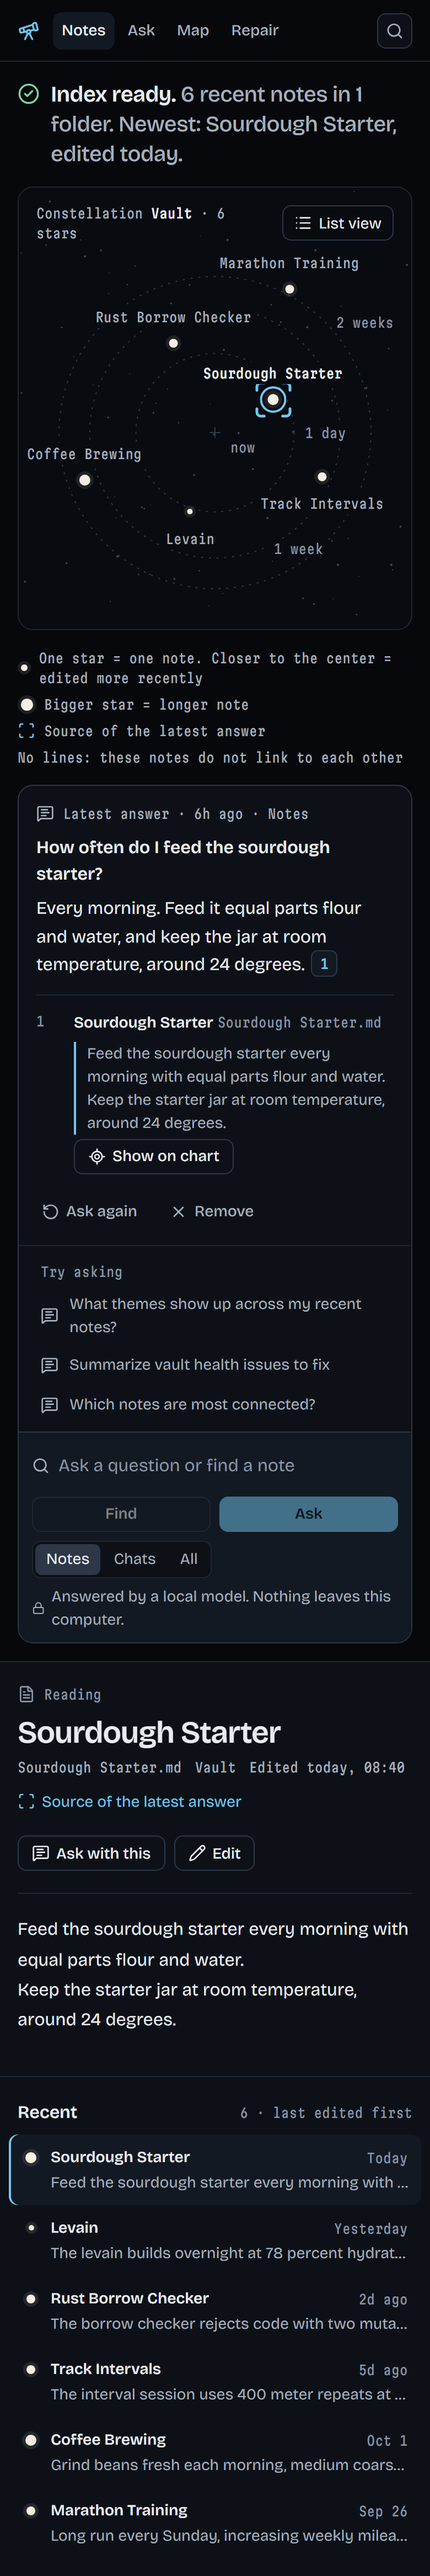
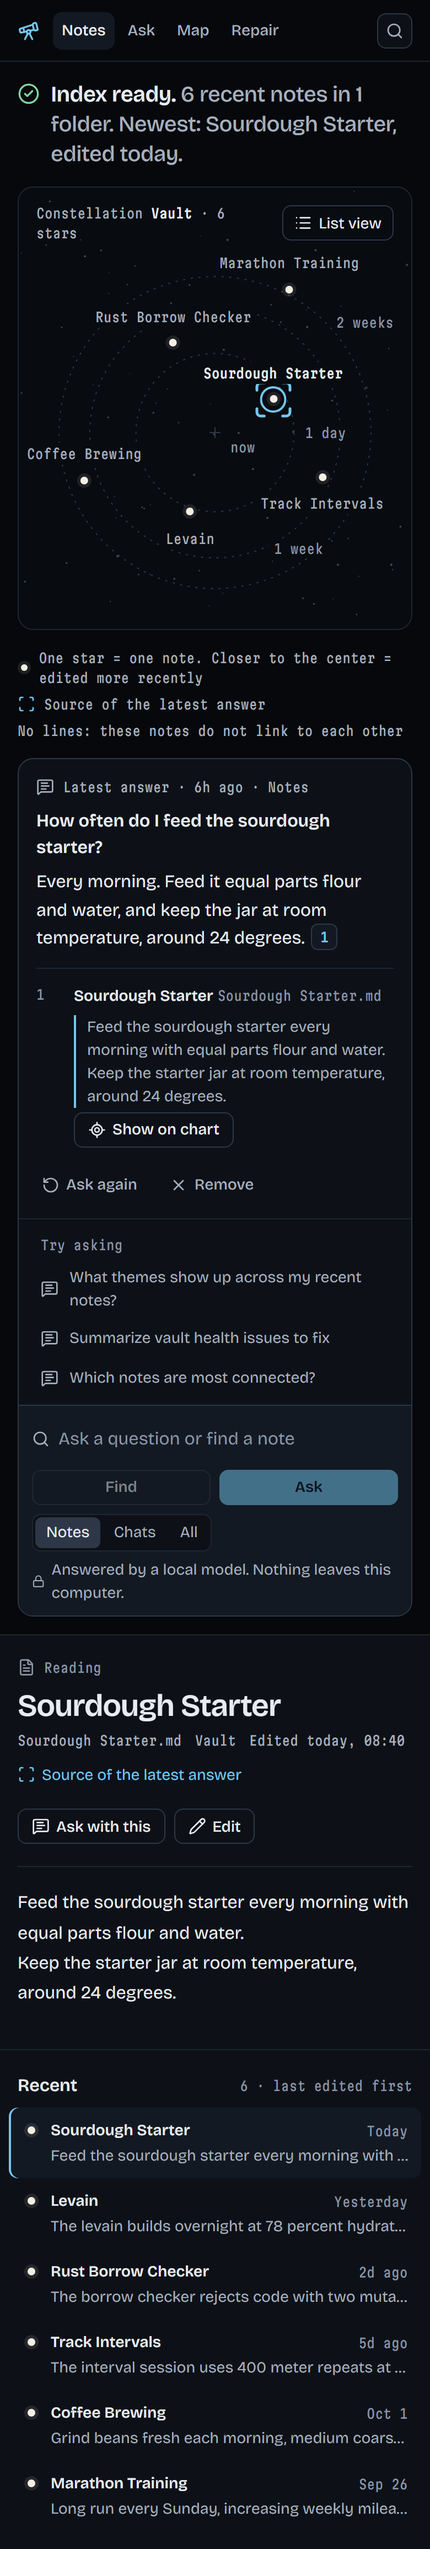
Give every star one size so the chart reads no note text
Sizing stars by length meant a GET /api/note for every recent note on each
visit, and on a OneDrive vault a read can force a download. The chart now
needs only id, title and edit time; the reading pane still fetches just
the note you open. The legend no longer mentions star size.

diff --git a/frontend/src/lib/starChart.test.ts b/frontend/src/lib/starChart.test.ts
@@ -3,7 +3,6 @@ import {
   DAY_MS,
   R_MAX,
   R_MIN,
-  dotSize,
   layoutStarChart,
   radiusFor,
   ringAges,
@@ -17,12 +16,12 @@ import {
 // and "now" fixed at 2026-10-11 11:40 PDT.
 const NOW = Date.parse("2026-10-11T11:40:00-07:00");
 const FIXTURE: ChartNote[] = [
-  { id: "Sourdough Starter.md", title: "Sourdough Starter", editedMs: 1791733200_000, words: 22 },
-  { id: "Levain.md", title: "Levain", editedMs: 1791648300_000, words: 13 },
-  { id: "Rust Borrow Checker.md", title: "Rust Borrow Checker", editedMs: 1791513000_000, words: 18 },
-  { id: "Track Intervals.md", title: "Track Intervals", editedMs: 1791296100_000, words: 18 },
-  { id: "Coffee Brewing.md", title: "Coffee Brewing", editedMs: 1790910600_000, words: 22 },
-  { id: "Marathon Training.md", title: "Marathon Training", editedMs: 1790430600_000, words: 18 },
+  { id: "Sourdough Starter.md", title: "Sourdough Starter", editedMs: 1791733200_000 },
+  { id: "Levain.md", title: "Levain", editedMs: 1791648300_000 },
+  { id: "Rust Borrow Checker.md", title: "Rust Borrow Checker", editedMs: 1791513000_000 },
+  { id: "Track Intervals.md", title: "Track Intervals", editedMs: 1791296100_000 },
+  { id: "Coffee Brewing.md", title: "Coffee Brewing", editedMs: 1790910600_000 },
+  { id: "Marathon Training.md", title: "Marathon Training", editedMs: 1790430600_000 },
 ];
 
 function distance(s: { x: number; y: number }): number {
@@ -93,7 +92,6 @@ describe("layoutStarChart", () => {
         id: `${folders[Math.floor(rand() * folders.length)]}Note ${i}.md`,
         title: `Note ${i}`,
         editedMs: NOW - rand() * scaleDays * DAY_MS,
-        words: Math.floor(rand() * 900),
       })).sort((a, b) => b.editedMs - a.editedMs);
       expectStarsBetweenTheirRings(notes, NOW);
     }
@@ -101,9 +99,9 @@ describe("layoutStarChart", () => {
 
   test("a note edited exactly on a ring age sits on that ring, not inside it", () => {
     const notes: ChartNote[] = [
-      { id: "a.md", title: "A", editedMs: NOW - 0.5 * DAY_MS, words: 1 },
-      { id: "b.md", title: "B", editedMs: NOW - 7 * DAY_MS, words: 1 },
-      { id: "c.md", title: "C", editedMs: NOW - 15 * DAY_MS, words: 1 },
+      { id: "a.md", title: "A", editedMs: NOW - 0.5 * DAY_MS },
+      { id: "b.md", title: "B", editedMs: NOW - 7 * DAY_MS },
+      { id: "c.md", title: "C", editedMs: NOW - 15 * DAY_MS },
     ];
     const chart = expectStarsBetweenTheirRings(notes, NOW);
     const week = chart.rings.find((r) => r.label === "1 week")!;
@@ -131,10 +129,10 @@ describe("layoutStarChart", () => {
 
   test("each folder gets its own wedge of the circle", () => {
     const notes: ChartNote[] = [
-      { id: "03 School/Graphs.md", title: "Graphs", editedMs: NOW - 1000, words: 10 },
-      { id: "02 Projects/Atlas.md", title: "Atlas", editedMs: NOW - 2 * DAY_MS, words: 10 },
-      { id: "03 School/Heaps.md", title: "Heaps", editedMs: NOW - 3 * DAY_MS, words: 10 },
-      { id: "02 Projects/Gridiron.md", title: "Gridiron", editedMs: NOW - 4 * DAY_MS, words: 10 },
+      { id: "03 School/Graphs.md", title: "Graphs", editedMs: NOW - 1000 },
+      { id: "02 Projects/Atlas.md", title: "Atlas", editedMs: NOW - 2 * DAY_MS },
+      { id: "03 School/Heaps.md", title: "Heaps", editedMs: NOW - 3 * DAY_MS },
+      { id: "02 Projects/Gridiron.md", title: "Gridiron", editedMs: NOW - 4 * DAY_MS },
     ];
     const chart = layoutStarChart(notes, [], NOW);
     expect(chart.constellations.map((c) => c.folder)).toEqual(["School", "Projects"]);
@@ -163,16 +161,11 @@ describe("layoutStarChart", () => {
     expect(layoutStarChart(FIXTURE, [], NOW).lines).toEqual([]);
   });
 
-  test("star size follows word count, and is neutral when the length is unknown", () => {
-    expect(dotSize(13, 13, 22)).toBe(5);
-    expect(dotSize(22, 13, 22)).toBe(10);
-    expect(dotSize(18, 18, 18)).toBe(7);
-    expect(dotSize(null, 0, 100)).toBe(7);
+  test("needs only id, title and edit time: no note text, so no note reads", () => {
     const chart = layoutStarChart(FIXTURE, [], NOW);
-    expect(chart.stars.find((s) => s.id === "Levain.md")!.size).toBe(5);
-    expect(chart.stars.find((s) => s.id === "Coffee Brewing.md")!.size).toBe(10);
-    const unknown = layoutStarChart(FIXTURE.map((n) => ({ ...n, words: null })), [], NOW);
-    expect(new Set(unknown.stars.map((s) => s.size))).toEqual(new Set([7]));
+    expect(Object.keys(chart.stars[0]).sort()).toEqual(
+      ["ageDays", "folder", "id", "label", "r", "side", "title", "x", "y"],
+    );
   });
 
   test("handles no notes", () => {

diff --git a/frontend/src/components/workspace/NotesView.tsx b/frontend/src/components/workspace/NotesView.tsx
@@ -5,14 +5,13 @@ import { CircleAlert, CircleCheck, FileText, Loader } from "lucide-react";
 import {
   ApiError,
   fetchGraph,
-  fetchNote,
   fetchRecent,
   folderCluster,
   recentToNote,
   type BackendGraphEdge,
 } from "@/lib/api";
 import { relativeDay } from "@/lib/format";
-import { cleanSnippet, wordCount } from "@/lib/noteText";
+import { cleanSnippet } from "@/lib/noteText";
 import { layoutStarChart, type ChartNote } from "@/lib/starChart";
 import { indexStatus } from "@/lib/status";
 import type { Note } from "@/types";
@@ -46,7 +45,6 @@ export function NotesView() {
   const { selectedNoteId, selectNote, ready } = useWorkspace();
   const [recent, setRecent] = useState<Recent>({ status: "loading" });
   const [links, setLinks] = useState<Links>({ status: "loading" });
-  const [words, setWords] = useState<Record<string, number>>({});
   const [sourceIds, setSourceIds] = useState<ReadonlySet<string>>(new Set());
   const [nowMs] = useState(() => Date.now());
   const readerRef = useRef<HTMLElement>(null);
@@ -77,25 +75,6 @@ export function NotesView() {
     };
   }, []);
 
-  // Star size needs each note's full length; /api/recent only sends the first 200 characters.
-  const recentIds = recent.status === "ready" ? recent.notes.map((n) => n.id).join("\n") : "";
-  useEffect(() => {
-    if (!recentIds) return;
-    let cancelled = false;
-    for (const id of recentIds.split("\n")) {
-      fetchNote(id)
-        .then((n) => {
-          if (!cancelled) setWords((w) => ({ ...w, [id]: wordCount(n.content, n.title) }));
-        })
-        .catch(() => {
-          /* size stays neutral for this note */
-        });
-    }
-    return () => {
-      cancelled = true;
-    };
-  }, [recentIds]);
-
   const notes = useMemo(() => (recent.status === "ready" ? recent.notes : []), [recent]);
   const chartNotes: ChartNote[] = useMemo(
     () =>
@@ -103,22 +82,19 @@ export function NotesView() {
         id: n.id,
         title: n.title,
         editedMs: Date.parse(n.updatedAt),
-        words: words[n.id] ?? null,
       })),
-    [notes, words],
+    [notes],
   );
   const chart = useMemo(
     () => layoutStarChart(chartNotes, links.status === "ready" ? links.edges : [], nowMs),
     [chartNotes, links, nowMs],
   );
-  const sizes = useMemo(() => Object.fromEntries(chart.stars.map((s) => [s.id, s.size])), [chart]);
   const editedIso = useMemo(() => Object.fromEntries(notes.map((n) => [n.id, n.updatedAt])), [notes]);
 
   const openId = selectedNoteId ?? notes[0]?.id ?? null;
   const openNote = notes.find((n) => n.id === openId);
   const chartState: ChartState =
     recent.status === "ready" ? (notes.length ? "ready" : "empty") : recent.status;
-  const sizesKnown = notes.length > 1 && notes.every((n) => words[n.id] !== undefined);
   const sourceOnChart = notes.some((n) => sourceIds.has(n.id));
 
   const pick = (id: string, reveal: "reader" | "chart" = "reader") => {
@@ -131,7 +107,6 @@ export function NotesView() {
       <RecentList
         recent={recent}
         openId={openId}
-        sizes={sizes}
         nowMs={nowMs}
         onPick={(id) => pick(id)}
       />
@@ -153,7 +128,6 @@ export function NotesView() {
             chart={chart}
             linksKnown={links.status === "ready"}
             sourceOnChart={sourceOnChart}
-            sizesKnown={sizesKnown}
           />
         )}
         <AskDock
@@ -237,13 +211,11 @@ function Lead({
 function RecentList({
   recent,
   openId,
-  sizes,
   nowMs,
   onPick,
 }: {
   recent: Recent;
   openId: string | null;
-  sizes: Record<string, number>;
   nowMs: number;
   onPick: (id: string) => void;
 }) {
@@ -287,7 +259,7 @@ function RecentList({
                 onClick={() => onPick(n.id)}
               >
                 <span className="dotcell" aria-hidden>
-                  <span className="dot" style={{ width: sizes[n.id] ?? 7, height: sizes[n.id] ?? 7 }} />
+                  <span className="dot" style={{ width: 7, height: 7 }} />
                 </span>
                 <span className="t">{n.title}</span>
                 <span className="d mono num">{relativeDay(n.updatedAt, nowMs)}</span>

diff --git a/frontend/src/lib/starChart.ts b/frontend/src/lib/starChart.ts
@@ -8,7 +8,8 @@
  *
  * - Distance from the center = time since the last edit, on a square-root
  *   scale. The age rings use the same scale (`radiusFor`).
- * - Star size = note length in words (5 to 10 px), when the length is known.
+ * - Every star is the same size. Size would need each note's full text, and
+ *   reading every recent note (OneDrive may download it) is not worth that.
  * - Constellation = folder, by the app's own `folderCluster()`. With more than
  *   one folder, each folder gets its own wedge of the circle.
  * - Lines = links between two plotted notes in the graph data. No link, no line.
@@ -49,8 +50,6 @@ export type ChartNote = Readonly<{
   title: string;
   /** last edit, epoch milliseconds */
   editedMs: number;
-  /** body length in words, or null while unknown */
-  words: number | null;
 }>;
 
 export type ChartLink = Readonly<{ source: string; target: string; is_ghost?: boolean }>;
@@ -64,14 +63,11 @@ export type Star = Readonly<{
   label: string;
   folder: string;
   ageDays: number;
-  words: number | null;
   x: number;
   y: number;
   /** distance from the center, in percent of the box side */
   r: number;
   side: LabelSide;
-  /** dot diameter in px */
-  size: number;
 }>;
 
 export type AgeRing = Readonly<{
@@ -128,12 +124,6 @@ export function ringAges(maxDays: number): { days: number; label: string }[] {
 export function pointAt(r: number, deg: number): { x: number; y: number } {
   const rad = (deg * Math.PI) / 180;
   return { x: 50 + 100 * r * Math.cos(rad), y: 50 + 100 * r * Math.sin(rad) };
-}
-
-/** 5 to 10 px by word count; 7 px when the length is unknown or all notes are the same length. */
-export function dotSize(words: number | null, min: number, max: number): number {
-  if (words === null || max <= min) return 7;
-  return 5 + Math.round(((words - min) / (max - min)) * 5);
 }
 
 export function shortLabel(title: string): string {
@@ -249,8 +239,6 @@ export function layoutStarChart(
   folderOf.forEach((f) => counts.set(f, (counts.get(f) || 0) + 1));
   const wedge = wedges(folders, counts, notes.length);
 
-  const known = notes.map((n) => n.words).filter((w): w is number => w !== null);
-  const [minW, maxW] = known.length ? [Math.min(...known), Math.max(...known)] : [0, 0];
 
   const seen = new Map<string, number>();
   const points = notes.map((n, i) => {
@@ -290,12 +278,10 @@ export function layoutStarChart(
     label: points[i].label,
     folder: folderOf[i],
     ageDays: ages[i],
-    words: n.words,
     x: points[i].x,
     y: points[i].y,
     r: points[i].r * 100,
     side: sides[i],
-    size: dotSize(n.words, minW, maxW),
   }));
 
   const taken = [...boxes, ...constellationBoxes, ...points.map((p) => dotBox(p, 2))];

diff --git a/frontend/src/components/workspace/StarChart.tsx b/frontend/src/components/workspace/StarChart.tsx
@@ -5,6 +5,8 @@ import { relativeDay } from "@/lib/format";
 import { starField, type StarChart as Chart } from "@/lib/starChart";
 
 const FIELD = starField(20261011, 150);
+/** Every star is one size: the chart encodes edit time, folder and links, not length. */
+const STAR_PX = 7;
 
 export type ChartState = "loading" | "ready" | "empty" | "error";
 
@@ -102,7 +104,6 @@ export function StarChart({
               s.title,
               `in ${s.folder}`,
               edited ? `edited ${relativeDay(edited, nowMs).toLowerCase()}` : null,
-              s.words !== null ? `${s.words} ${s.words === 1 ? "word" : "words"}` : null,
               isSource ? "source of the latest answer" : null,
             ].filter(Boolean);
             return (
@@ -122,7 +123,7 @@ export function StarChart({
                   onClick={() => onSelect(s.id)}
                 >
                   <span className="dotbox">
-                    <span className="dot" style={{ width: s.size, height: s.size }} />
+                    <span className="dot" style={{ width: STAR_PX, height: STAR_PX }} />
                   </span>
                   <span className="star-name mono" aria-hidden>
                     {s.label}
@@ -155,12 +156,10 @@ export function ChartLegend({
   chart,
   linksKnown,
   sourceOnChart,
-  sizesKnown,
 }: {
   chart: Chart;
   linksKnown: boolean;
   sourceOnChart: boolean;
-  sizesKnown: boolean;
 }) {
   return (
     <ul className="legend mono" aria-label="How to read the chart">
@@ -170,14 +169,6 @@ export function ChartLegend({
         </span>
         One star = one note. Closer to the center = edited more recently
       </li>
-      {sizesKnown && (
-        <li>
-          <span className="key">
-            <span className="dot" style={{ width: 11, height: 11 }} />
-          </span>
-          Bigger star = longer note
-        </li>
-      )}
       {chart.constellations.length > 1 && <li>Constellation = folder</li>}
       {sourceOnChart && (
         <li>

diff --git a/frontend/src/lib/noteText.test.ts b/frontend/src/lib/noteText.test.ts
@@ -1,5 +1,5 @@
 import { describe, expect, test } from "bun:test";
-import { cleanSnippet, noteBlocks, wordCount } from "./noteText";
+import { cleanSnippet, noteBlocks } from "./noteText";
 import { askedAgo, clockTime, editedPhrase, relativeDay } from "./format";
 import { answerFromHistory, uniqueSources } from "./ask";
 
@@ -16,14 +16,6 @@ describe("cleanSnippet", () => {
   test("keeps text when there is no title heading", () => {
     expect(cleanSnippet("Just a line\nand another", "Other")).toBe("Just a line and another");
     expect(cleanSnippet("", "Empty")).toBe("");
-  });
-});
-
-describe("wordCount", () => {
-  test("counts body words without the title", () => {
-    expect(wordCount(COFFEE, "Coffee Brewing")).toBe(22);
-    expect(wordCount("# Levain\n\nThe levain builds overnight at 78 percent hydration\nDiscard goes into pancake batter", "Levain")).toBe(13);
-    expect(wordCount("# Only Title", "Only Title")).toBe(0);
   });
 });
 

diff --git a/frontend/src/lib/noteText.ts b/frontend/src/lib/noteText.ts
@@ -1,6 +1,6 @@
 /**
- * Calculations over a note's Markdown text: the snippet for a list row, the
- * word count behind a star's size, and the blocks the reading pane renders.
+ * Calculations over a note's Markdown text: the snippet for a list row and
+ * the blocks the reading pane renders.
  * All pure: text in, data out.
  */
 
@@ -27,12 +27,6 @@ export function cleanSnippet(md: string, title: string): string {
     .join(" ")
     .replace(/\s+/g, " ")
     .trim();
-}
-
-/** Words in the note body, not counting the title heading. */
-export function wordCount(md: string, title: string): number {
-  const text = cleanSnippet(md, title);
-  return text ? text.split(" ").length : 0;
 }
 
 export type NoteBlock =

diff --git a/DESIGN.md b/DESIGN.md
@@ -52,7 +52,7 @@ Dark only, by Bryan's choice: `color-scheme: dark`, tokens defined once on `:roo
 - The app keeps its own small component set: CSS classes in `globals.css` plus Tailwind utilities, and React components in `frontend/src/components/workspace/`. It does not use shadcn/ui; adding it would be a new dependency for a handful of parts.
 - Buttons: primary = filled accent (`.btn-primary`, one per area: Ask, Save), secondary = outline (`.btn`), quiet = text only (`.btn-quiet`). Destructive actions use words ("Remove", "Clear history") and a confirm where they delete many things.
 - Top bar: brand, four tabs (Notes, Ask, Map, Repair, each with its Ctrl shortcut), the index status outside Notes, and the Ctrl K search button.
-- Star chart (`StarChart.tsx`, layout in `lib/starChart.ts`): each recent note is a star. Distance from the center = time since the last edit, on the same square-root scale as the dashed age rings. Star size = note length in words. Constellation = folder (`folderCluster()`), one wedge per folder. Lines only where the graph data has a link. The angle inside a constellation means nothing. A bracket marks the latest answer's source. The legend only states what is true of what is drawn.
+- Star chart (`StarChart.tsx`, layout in `lib/starChart.ts`): each recent note is a star. Distance from the center = time since the last edit, on the same square-root scale as the dashed age rings. All stars are one size: sizing by length would mean reading every recent note, and on a OneDrive vault a read can force a download. Constellation = folder (`folderCluster()`), one wedge per folder. Lines only where the graph data has a link. The angle inside a constellation means nothing. A bracket marks the latest answer's source. The legend only states what is true of what is drawn.
 - Ask dock and Ask view: the answer above, numbered citations ([1]) that point to a source list with the note title, file name and quoted text, then suggested questions or Find results, then the input with the scope choice and the privacy line.
 - Reading pane: title once, file name, folder and edit time in mono, then the note with headings rendered. Edit and Save stay here.
 - Status words: Broken / Orphan / Tagless pills always carry the word; color is extra.

diff --git a/ATLAS_MOCK.md b/ATLAS_MOCK.md
@@ -25,7 +25,7 @@ The Vercel `atlas-prototype` project is a separate marketing mock (`_atlas-mock-
 ## Notes
 
 - The look is the Observatory system in `DESIGN.md` (dark only); content is real vault titles/counts.
-- The Notes star chart plots the notes `/api/recent` returns: distance from the center is time since the last edit, star size is the note's length in words (from `/api/note/{ref}`), constellations are folders, and lines are links from `/api/graph`.
+- The Notes star chart plots the notes `/api/recent` returns: distance from the center is time since the last edit, constellations are folders, and lines are links from `/api/graph`. Every star is the same size, so the chart reads no note text; the reading pane fetches only the note you open.
 - Map shows ~24 notes across vault folders (Home, School, Projects, …), not KMeans blobs. Chat archives stay off until you toggle them; subtitle shows the hidden count.
 - Health issue lists come from the backend scan (`broken_links`, `orphaned_notes`, `tagless_notes`). When `vault-core` is missing, `backend/health_hygiene.py` derives those lists from Chroma so Repair is populated; empty lists then mean a clean scan, not a missing binary.
 - Inspector can edit and save notes unless the file is a OneDrive placeholder (`read_only_fallback`).
